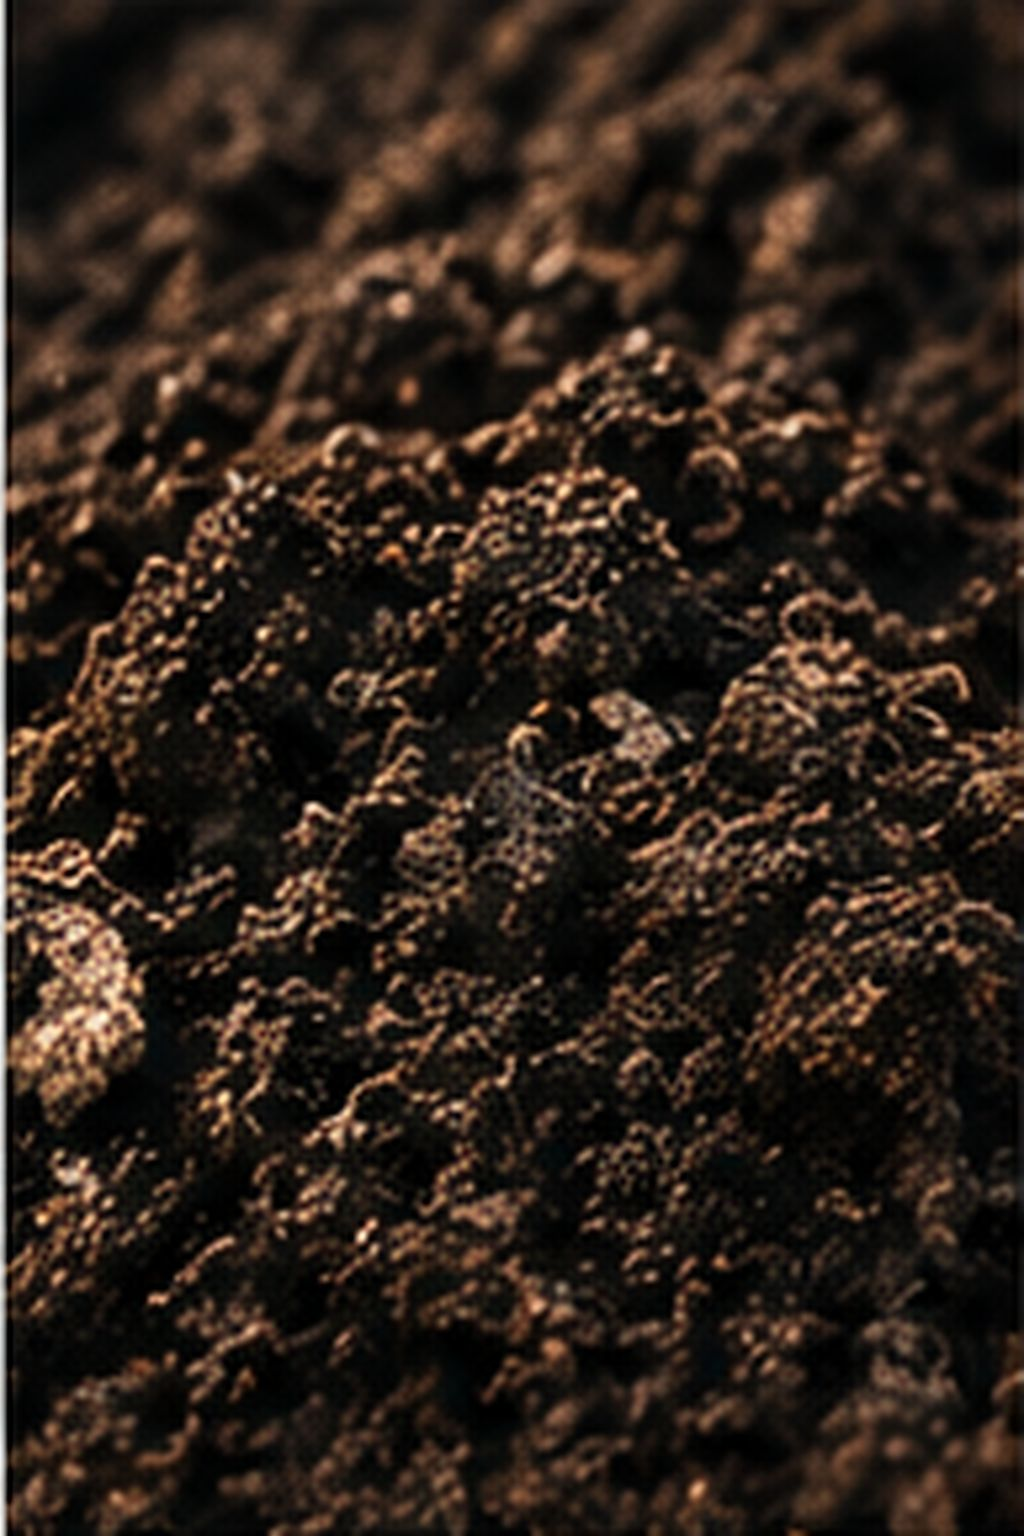
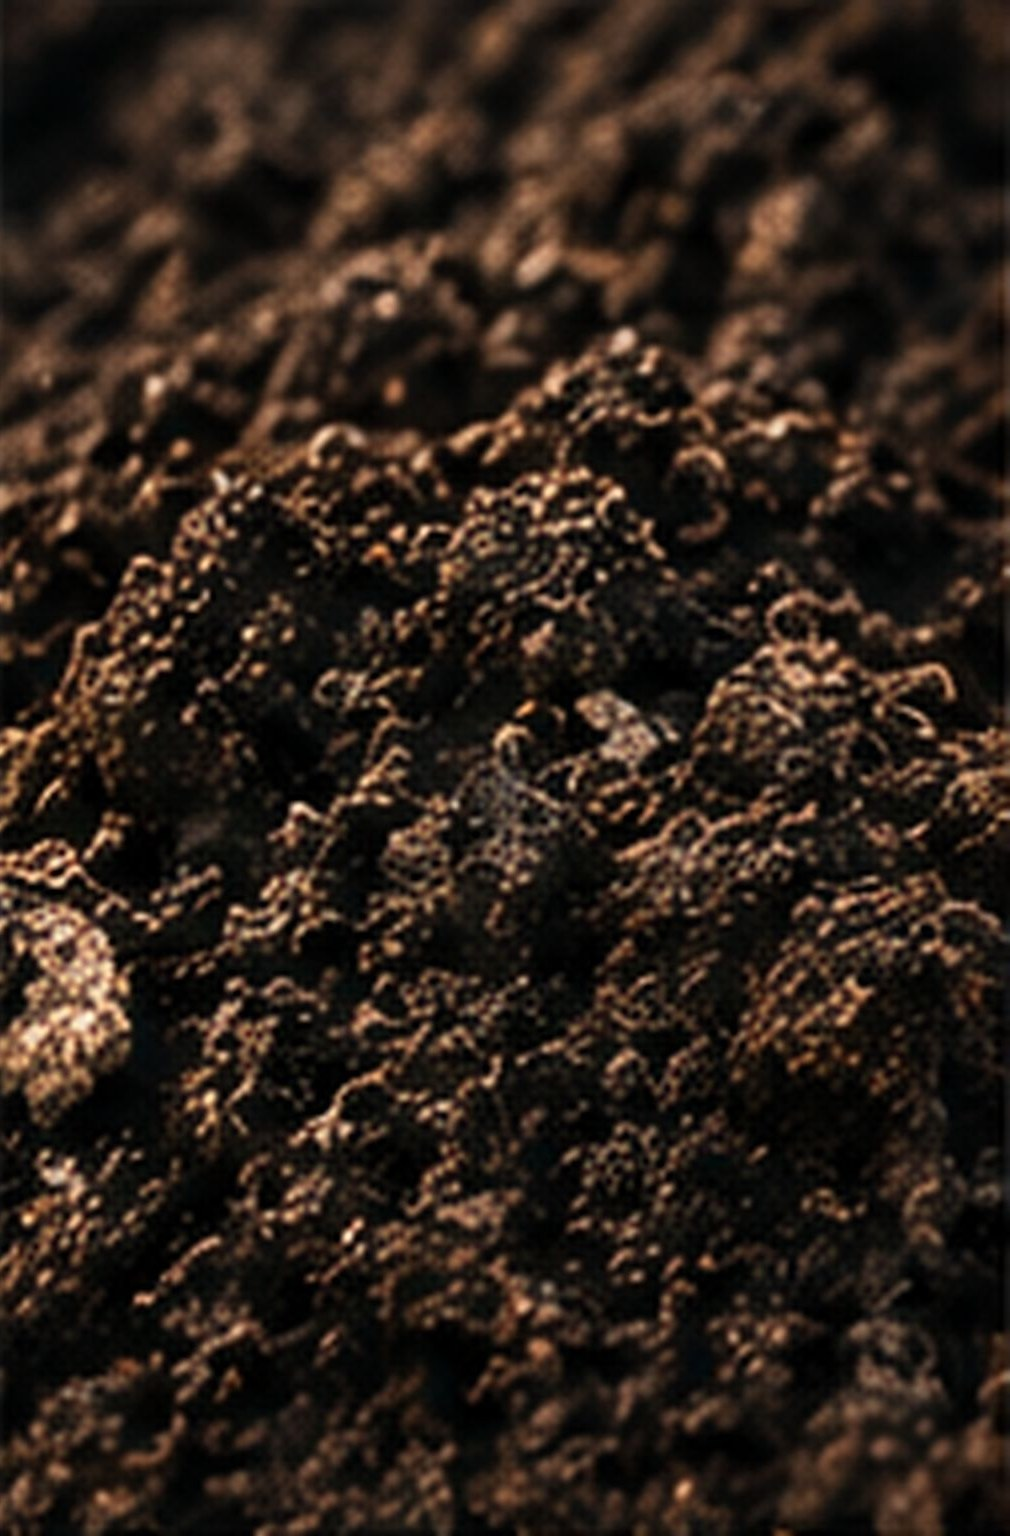
Home: 'beneath' section in two equal halves on desktop
Claude-Session: https://claude.ai/code/session_01P849pi7NVLvdNLyeyarciD

diff --git a/index.html b/index.html
@@ -102,7 +102,7 @@
       <p class="lede muted rv" style="margin-top:1.5rem">What a crop does above ground depends on the few centimetres it roots into. Worming makes one material for that layer.</p>
     </div>
     <div class="beneath__side">
-      <figure class="beneath__img"><picture><source media="(min-width:62rem)" srcset="images/placeholder/material-macro-wide.jpg"><img src="images/placeholder/material-macro-tall.jpg" alt="Close view of dark, fine worm humus" loading="lazy"></picture></figure>
+      <figure class="beneath__img"><picture><img src="images/placeholder/material-macro-tall.jpg" alt="Close view of dark, fine worm humus" loading="lazy"></picture></figure>
       <div>
         <h2 class="small muted" style="font-weight:500">Worm humus for professional growing</h2>
         <dl class="facts">

diff --git a/lv/index.html b/lv/index.html
@@ -93,7 +93,7 @@
 <p class="lede muted rv" style="margin-top:1.5rem">Tas, kā augs aug virs zemes, ir atkarīgs no tiem dažiem centimetriem, kuros tas iesakņojas. Worming ražo vienu materiālu tieši šim slānim.</p>
 </div>
 <div class="beneath__side">
-<figure class="beneath__img"><picture><source media="(min-width:62rem)" srcset="../images/placeholder/material-macro-wide.jpg"/><img alt="Tumšs, smalks biohumuss tuvplānā" loading="lazy" src="../images/placeholder/material-macro-tall.jpg"/></picture></figure>
+<figure class="beneath__img"><picture><img alt="Tumšs, smalks biohumuss tuvplānā" loading="lazy" src="../images/placeholder/material-macro-tall.jpg"/></picture></figure>
 <div>
 <h2 class="small muted" style="font-weight:500">Biohumuss profesionāliem audzētājiem</h2>
 <dl class="facts">

diff --git a/css/site.css b/css/site.css
@@ -534,3 +534,13 @@ html[data-hide="1"]:not(.menu-open) .site-header{transform:translateY(-101%)}
   .cmp__grid{grid-template-columns:5fr 8fr;gap:3rem}
 }
 @media (min-width:62rem){.cmp__grid{grid-template-columns:6fr 8fr}}
+/* Beneath: equal halves on desktop. Text and facts left, photo right at full height */
+@media (min-width:62rem){
+  .beneath__grid{grid-template-columns:1fr 1fr;gap:2.5rem 5rem;align-items:stretch}
+  .beneath__copy{grid-column:1;grid-row:1;position:static}
+  .beneath__side{display:contents}
+  .beneath__side > div{grid-column:1;grid-row:2}
+  .beneath__img{grid-column:2;grid-row:1 / span 2;aspect-ratio:auto;min-height:28rem;position:relative;margin-right:calc(var(--gut) * -1)}
+  .beneath__img picture{position:absolute;inset:0}
+  .beneath__img img{object-position:50% 50%}
+}
